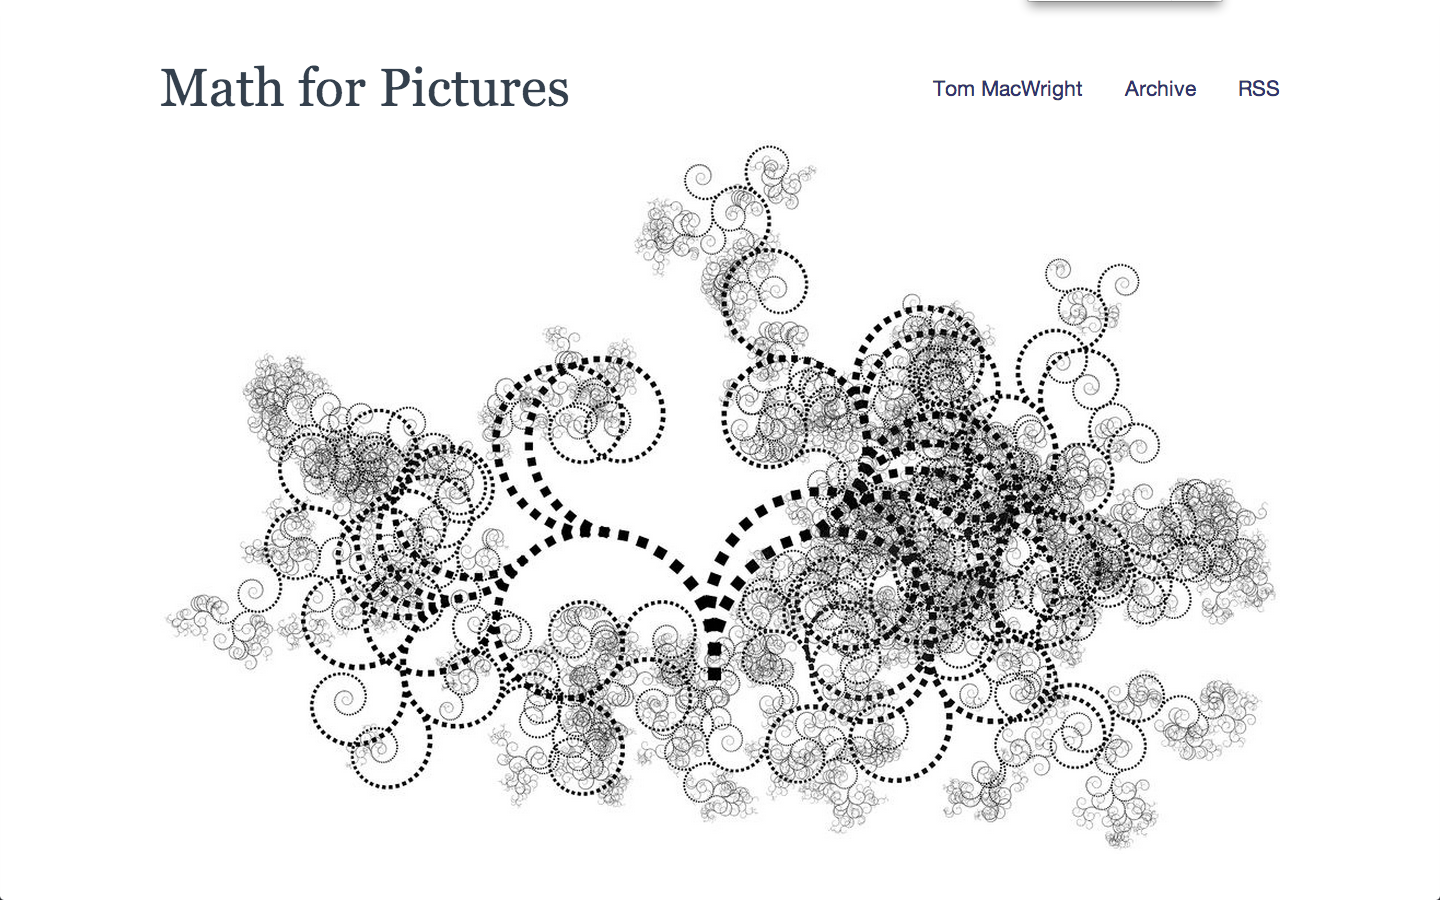
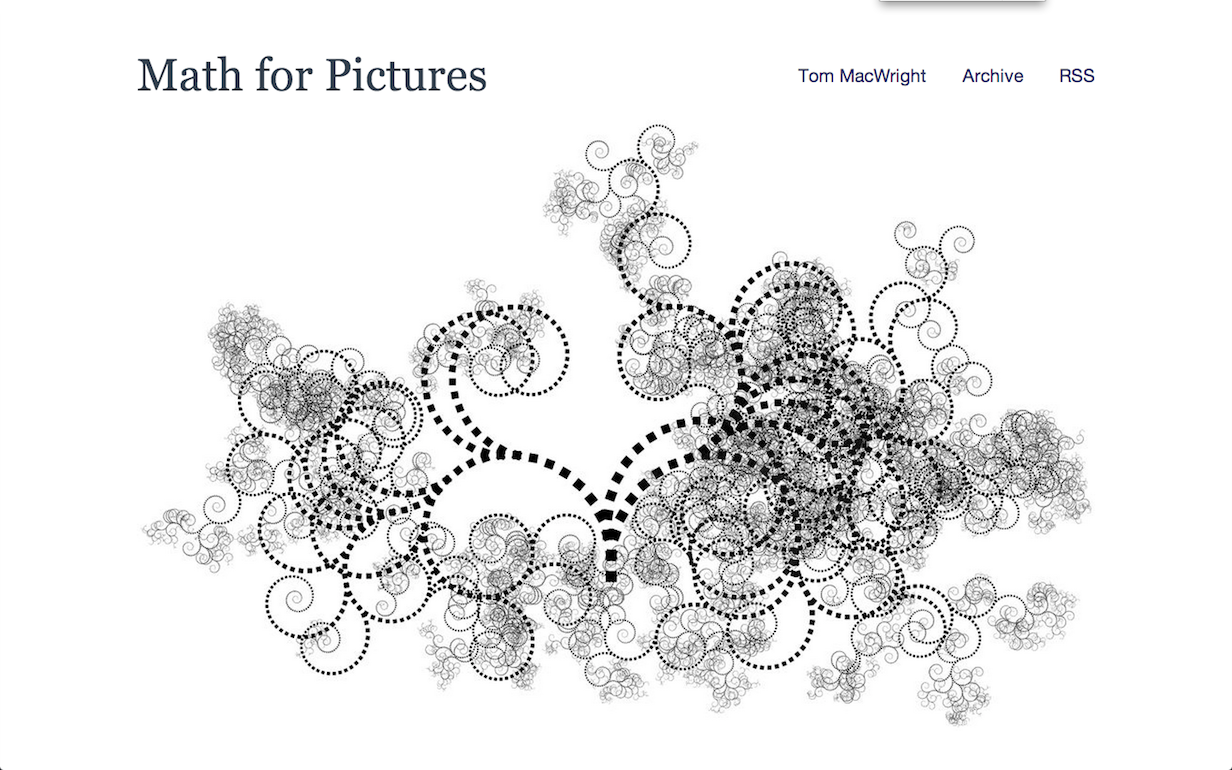
more smallerizing

diff --git a/slides/collide_code_with_alpha.html b/slides/collide_code_with_alpha.html
@@ -9,7 +9,7 @@
     <script type="text/javascript" src="../js/jquery.highlight.js"></script>
     <script>hljs.initHighlightingOnLoad();</script>
     <script type="text/javascript">
-      var substeps = [];
+      var substeps = ['highlight_charge', 'highlight'];
 
       function step(cur_step) {
         if(cur_step == 'highlight_charge') {
@@ -26,20 +26,33 @@
     <script type="text/javascript" src="../js/slide.js"></script>
   </head>
   <body>
-    <h2>Collide</h2>
+    <h2></h2>
     <pre>
-      <code class="javascript" style="font-size: 82%;">
+      <code class="javascript" style="font-size: 75%;">
+
 function collide(alpha) {
   return function(node1) {
-    //for each 'node2', in nodes
-    //  if node1 != node2
-    //    figure out distance between two nodes
+    nodes.forEach(function(node2) {
+      if(node1 != node2) {
+        var x = node1.x - node2.x;
+        var y = node1.y - node2.y;
+        var distance = Math.sqrt(x * x + y * y);
 
-    //    if nodes are too close
-    //      move node1 back half
-    //      move node2 back half
+        var minDistance = node1.size + node2.size + 3;
+
+        if(distance < minDistance) {
+          var newDistance = 
+             ((distance - minDistance) / distance) * alpha;
+          node1.x = node1.x - (x * newDistance);
+          node1.y = node1.y - (y * newDistance);
+          node2.x = node2.x + (x * newDistance);
+          node2.y = node2.y + (y * newDistance);
+        }
+      }
+    });
   };
 }
+      
       </code>
     </pre>
   </body>

diff --git a/slides/collide_code.html b/slides/collide_code.html
@@ -26,26 +26,27 @@
     <script type="text/javascript" src="../js/slide.js"></script>
   </head>
   <body>
-    <h2>Collide</h2>
+    <h2></h2>
     <pre>
-      <code class="javascript" style="font-size: 85%;">
+      <code class="javascript" style="font-size: 75%;">
 
-function collide(alpha) {
-  return function(d) {
-    nodes.forEach(function(d2) {
-      if(d != d2) {
-        var x = d.x - d2.x;
-        var y = d.y - d2.y;
+function collide() {
+  return function(node1) {
+    nodes.forEach(function(node2) {
+      if(node1 != node2) {
+        var x = node1.x - node2.x;
+        var y = node1.y - node2.y;
         var distance = Math.sqrt(x * x + y * y);
 
-        var minDistance = d.size + d2.size + 3;
+        var minDistance = node1.size + node2.size + 3;
 
         if(distance < minDistance) {
-          var newDistance = ((distance - minDistance) / distance) * alpha;
-          d.x = d.x - (x * newDistance);
-          d.y = d.y - (y * newDistance);
-          d2.x = d2.x + (x * newDistance);
-          d2.y = d2.y + (y * newDistance);
+          var newDistance = 
+            ((distance - minDistance) / distance) / 2;
+          node1.x = node1.x - (x * newDistance);
+          node1.y = node1.y - (y * newDistance);
+          node2.x = node2.x + (x * newDistance);
+          node2.y = node2.y + (y * newDistance);
         }
       }
     });

diff --git a/index.html b/index.html
@@ -12,6 +12,7 @@
     <script type="text/javascript">
 
 var slides = [
+  "slides/title.html",
   "slides/force_face.html",
   "remix/index.html",
   "slides/amanda_js_quote.html",
@@ -43,9 +44,9 @@ var slides = [
   "slides/simple_bubbles_custom_force_no_alpha.html",
   "slides/simulated_annealing_title.html",
   "slides/simulated_annealing.html",
+  "slides/alpha_blending_quote.html",
   "slides/alpha.html",
   "slides/alpha_out.html",
-  "slides/alpha_blending_quote.html",
   "slides/force_code_with_tick_function_centers_alpha.html",
   "slides/simple_bubbles_custom_force_alpha.html",
   "gates/index.html",
@@ -57,9 +58,11 @@ var slides = [
   "bubble_cloud/index.html",
   "slides/collide_pseudo_code.html",
   "slides/collide_code.html",
-  "slides/simple_bubbles_collide_brute.html",
   "slides/collision.html",
+  "bubble_cloud/index.html",
+  "slides/simple_bubbles_collide_brute.html",
   "slides/alpha_collision_quote.html",
+  "slides/collide_code_with_alpha.html",
   "slides/quadtree_title.html",
   "slides/quadtree_image.html",
   "slides/quadtree/index.html",

diff --git a/slides/title.html b/slides/title.html
@@ -1,0 +1,30 @@
+<!DOCTYPE html>
+<html>
+  <head>
+    <meta http-equiv="Content-Type" content="text/html;charset=utf-8">
+    <link type="text/css" rel="stylesheet" href="../css/style.css"/>
+    <link type="text/css"  rel="stylesheet" href="../js/highlight.js/styles/tomorrow-night-bright.css">
+    <script type="text/javascript" src="../js/highlight.js/highlight.pack.js"></script>
+    <style type="text/css">
+
+circle.node {
+  cursor: pointer;
+  stroke: #000;
+  stroke-width: .5px;
+}
+
+line.link {
+  fill: none;
+  stroke: #444;
+  stroke-width: 4px;
+}
+
+    </style>
+    <script type="text/javascript" src="../js/d3.v3.js"></script>
+    <script type="text/javascript" src="../js/slide.js"></script>
+  </head>
+  <body>
+    <h1>Using and Abusing the Force</h1>
+    <h1 style="font-size:80%;">Explanations and Applications of D3's force layout</h1>
+  </body>
+</html>

diff --git a/slides/multiple_forces_code.html b/slides/multiple_forces_code.html
@@ -11,15 +11,13 @@
     <script type="text/javascript" src="../js/slide.js"></script>
   </head>
   <body>
-    <h2>Force Code</h2>
+    <h2></h2>
     <pre>
-      <code class="javascript">
+      <code class="javascript small">
 function tick(e) {
-
-  var alpha = e.alpha;
   node
-    .each(move_to_category_center(alpha))
-    .each(buoyancy(alpha));
+    .each(moveTowardCategoryCenter(e.alpha))
+    .each(buoyancy(e.alpha));
 
   node.attr("cx", function(d) { return d.x; })
       .attr("cy", function(d) { return d.y; });
@@ -30,8 +28,9 @@ function buoyancy(alpha) {
     var targetY = tierFor(d);
     d.y = d.y + (targetY - d.y) * alpha * alpha;
   };
+}
 
-function move_to_category_center(alpha) {
+function moveTowardCategoryCenter(alpha) {
   return function(d) {
     // ...
   };

diff --git a/bubble_cloud/index.html b/bubble_cloud/index.html
@@ -33,16 +33,15 @@
       </select>
     <header>
     <h1>Bubble Cloud</h1>
-    <h2>The most frequently used words in:</h2>
       <h2 id="book-title"></h2>
     </header>
     <div id="main" role="main">
       <div id="vis"></div>
       <div id="status"></div>
       <div id="controls">
-        <h3>Jitter</h3>
+        <h3>Alpha</h3>
         <form id="jitter" oninput="output.value = (jitter_input.value / 200).toFixed(3)" >
-          <input id="jitter_input" type="range" min="0" max="400" value="100" style="width:240px;">
+          <input id="jitter_input" type="range" min="0" max="400" value="100" style="width:240px;height:20px;">
           <output name="output" for="input">0.5</output>
         </form>
       </div>

diff --git a/slides/collision.html b/slides/collision.html
@@ -3,6 +3,7 @@
   <head>
     <meta http-equiv="Content-Type" content="text/html;charset=utf-8"/>
     <script type="text/javascript" src="../js/d3.v3.js"></script>
+    <script type="text/javascript" src="../js/slide.js"></script>
     <link type="text/css" rel="stylesheet" href="../css/style.css"/>
     <style type="text/css">
 
@@ -21,7 +22,7 @@ circle {
     </div>
     <script type="text/javascript">
 
-var w = 1024,
+var w = 960,
     h = 740;
 
 var nodes = d3.range(200).map(function() { return {radius: Math.random() * 12 + 4}; }),

diff --git a/slides/simple_bubbles_overlap.html b/slides/simple_bubbles_overlap.html
@@ -50,9 +50,9 @@ var force = d3.layout.force()
   .on("tick", tick)
   .charge(-40);
 
-nodes.push({size:30}, {size:30}, {size:30});
+nodes.push({size:100}, {size:30}, {size:30});
 nodes.push({size:10}, {size:10}, {size:10});
-nodes.push({size:100}, {size:30}, {size:10});
+nodes.push({size:30}, {size:30}, {size:10});
 
   /* .charge(function(d) { return d._children ? -d.size / 100 : -30; }) */
   /* .linkDistance(function(d) { return d.target._children ? 80 : 30; }) */

diff --git a/slides/force_face.html b/slides/force_face.html
@@ -20,6 +20,10 @@ line.link {
 }
 
     </style>
+
+    <script type="text/javascript">
+      var substeps = ['start'];
+    </script>
   </head>
   <body>
     <h1>Using and Abusing the Force</h1>
@@ -139,7 +143,13 @@ function load(error, data) {
 
 }
 
-d3.json("../resources/face_nodes/face.json", load);
+
+function step(cur_step) {
+  if(cur_step == 'start') {
+    d3.json("../resources/face_nodes/face.json", load);
+  }
+};
+
 
 
     </script>

diff --git a/bubble_cloud/css/style.css b/bubble_cloud/css/style.css
@@ -7,10 +7,10 @@ a, a:visited {
 }
 
 #container {
-  padding-top:20px;
+  /* padding-top:20px; */
   width: 980px;
-  border-left: 2px #ddd solid;
-  border-right: 2px #ddd solid;
+  /* border-left: 2px #ddd solid; */
+  /* border-right: 2px #ddd solid; */
 }
 
 header {
@@ -39,7 +39,7 @@ header {
 }
 
 #controls {
-  padding: 20px;
+  padding: 5px;
   background-color: #eee;
   margin: 10px;
   width: 350px;

diff --git a/slides/macwright_math.html b/slides/macwright_math.html
@@ -8,7 +8,7 @@
     <style type="text/css">
       body {
         background-color: #f6f2ec;
-        background-image: url('../img/math_for_pictures.png');
+        background-image: url('../img/math_for_pictures_1024x768.png');
         background-repeat: no-repeat;
         /* background-size: 100% 100%; */
         /* background-size: 1280px 800px; */

diff --git a/slides/nyt_bubble_cloud.html b/slides/nyt_bubble_cloud.html
@@ -8,7 +8,7 @@
     <style type="text/css">
       body {
         background-color: #f6f2ec;
-        background-image: url('../img/nyt_bubble_cloud.png');
+        background-image: url('../img/nyt_bubble_cloud_1024x768.png');
         background-repeat: no-repeat;
         /* background-size: 100% 100%; */
         /* background-size: 1280px 800px; */
